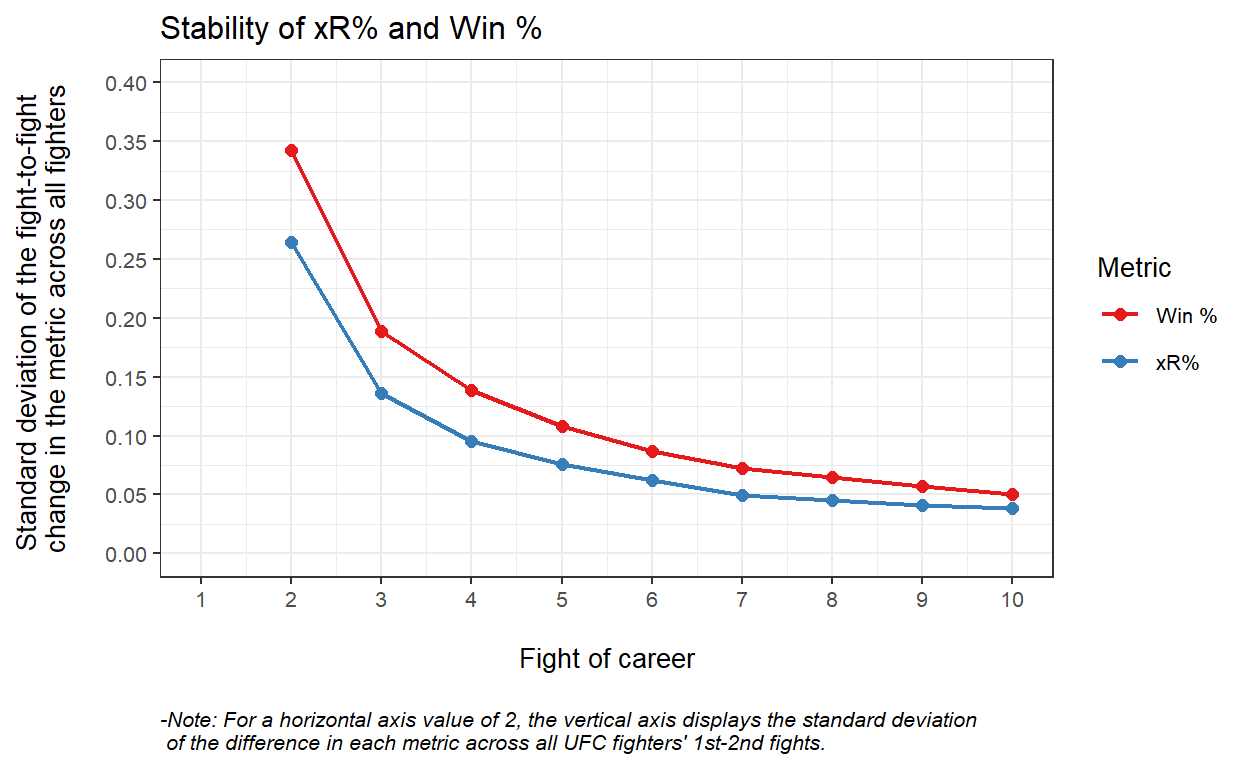
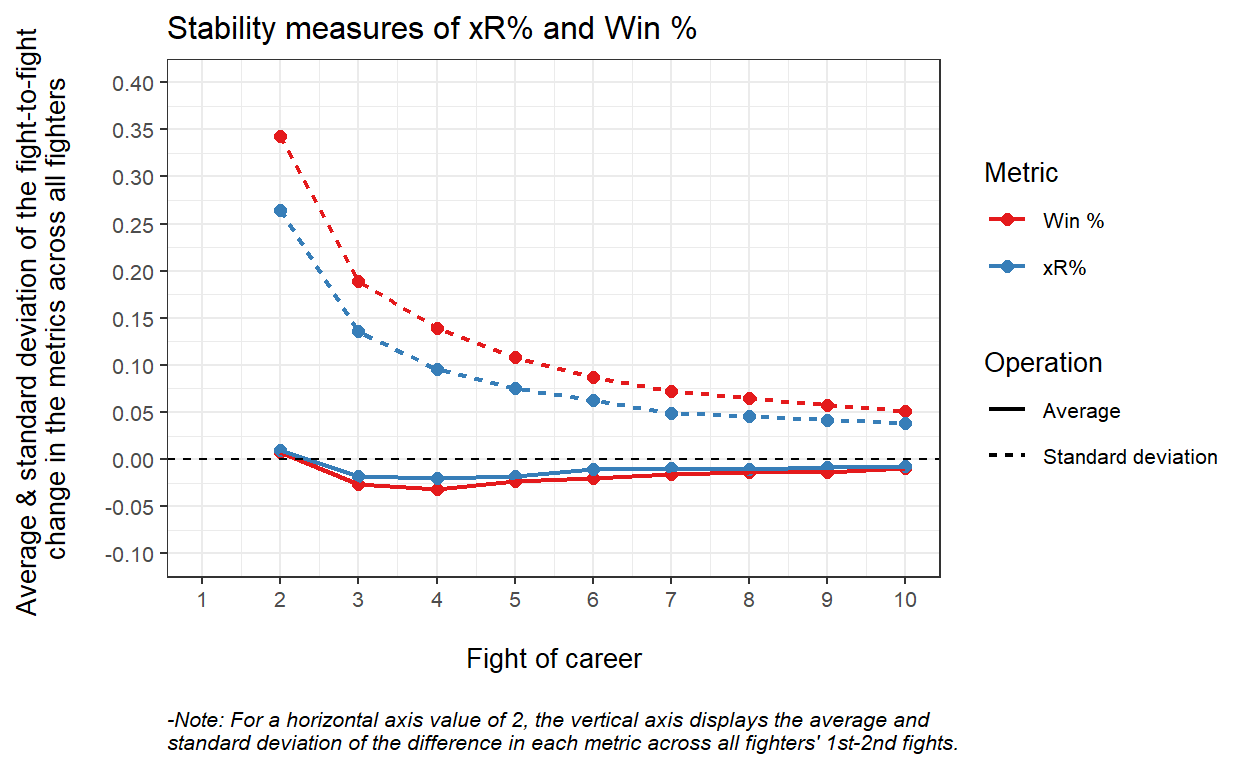
edit intro to xR post

diff --git a/_posts/2021-03-02-introducing-expected-rounds-xr/introducing-expected-rounds-xr.html b/_posts/2021-03-02-introducing-expected-rounds-xr/introducing-expected-rounds-xr.html
@@ -1528,7 +1528,7 @@ code span.wa { color: #5e5e5e; font-style: italic; } /* Warning */
 <p><img src="introducing-expected-rounds-xr_files/figure-html5/unnamed-chunk-2-1.png" width="624" data-distill-preview=1 /></p>
 </div>
 <h1 id="methodology">Methodology</h1>
-<p>The xR metric is an extension of a machine learning algorithm I developed in a <a href="https://literalfightnerd.com/posts/2021-02-19-introducing-judgeai/">previous blog post</a>. That algorithm uses official UFC round-level striking and grappling statistics to predict judges’ scores by round. The model used to create xR is trained on 4,399 UFC fights that all ended in a decision by the judges across 2011-2020. As demonstrated in my prior post, the model is able to predict round scores with a high degree of accuracy and generate well-calibrated probabilities for each possible round score. That is, for each round in the UFC, we use the algorithm to recover the probability that the judges will score the round 10-9, 10-8, 9-10, or 8-10. Then, using these round score probabilities, we compute the probability of each fighter winning that round.</p>
+<p>The xR metric is an extension of a machine learning algorithm I developed in a <a href="https://literalfightnerd.com/posts/2021-02-19-introducing-judgeai/">previous blog post</a>. That algorithm uses official UFC round-level striking and grappling statistics to predict judges’ scores by round. The model used to create xR is trained on 1,670 UFC fights that all ended in a decision by the judges across 2011-2020. As demonstrated in my prior post, the model is able to predict round scores with a high degree of accuracy and generate well-calibrated probabilities for each possible round score. That is, for each round in the UFC, we use the algorithm to recover the probability that the judges will score the round 10-9, 10-8, 9-10, or 8-10. Then, using these round score probabilities, we compute the probability of each fighter winning that round.</p>
 <p>For each round that does not end via knockout or submission, xR is simply the probability that a particular fighter won the round. Hence, xR treats each round as a single point that is up for grabs and uses round win probabilities to partition that point between the two fighters. Then, for each round that ends in a knockout or submission, the winning fighter’s xR for that round is 1 and the losing fighter’s xR for that round is 0. The equation below defines xR for a given fighter as a piece-wise function.</p>
 <p><strong>xR for a given fighter and round:</strong> <span class="math display">\[\begin{equation}
 xR = 
@@ -2336,9 +2336,9 @@ Max Holloway
 <p>First, sample size is a particularly troubling issue in MMA, and small samples cause instability. Win percent utilizes each fight once, and as a result, it can be an unstable metric for fighters that do not have many fights. Judging errors, for example, can cause large, unjust deviations in a fighter’s win percent during the early part of his or her career. Hence, intuitively, we see that only drawing from a handful of fight outcomes coupled with the judging volatility ingrained in those outcomes can make win percent a relatively unstable metric, especially early in a fighter’s career.</p>
 <p>The xR% metric, on the other hand, is computed using each round as an observation. Thus, after only 4-5 fights, a fighter will generally have fought 10 or more rounds. Utilizing these additional observations from each fight allows xR% to essentially observe each fighter’s dominance (or lack thereof) in the octagon more often than win percent, which only considers each fight once. The metric generated from more observations should vary less over time because the stability of the metrics under consideration is generally correlated with sample size. Therefore, conceptually, we can see how xR% should be able to produce a more stable measure of fighter quality in fewer fights than win percent.</p>
 <p>If the conceptual argument has not convinced you, let’s look at the degree to which these metrics actually change over a fighter’s career. This argument is a bit technical and in the weeds, so feel free to skip it if it does not interest you.</p>
-<p>Using every UFC fight in 2011-2020, we first compute the difference in win percent and xR% from each fighter’s 1st-2nd UFC fight. Then, we compute the standard deviation of these differences for each metric and plot those two values on the figure below corresponding to a value of 2 on the horizontal axis (to represent the change occurring after each fighter’s 2nd UFC fight). Likewise, we take the difference in win percent and xR% from each fighter’s 2nd-3rd UFC fight, compute the standard deviation of those differences, and plot those points along the horizontal axis at a value of 3. We continue this process up to the 10th fight of each fighter’s UFC career.</p>
-<p>The lines on the figure below essentially measure the magnitude of the variation in each metric (along the vertical axis) as the number of fights used to compute each metric increases (along the horizontal axis). Smaller values on the vertical axis represent an increase in stability. Eventually both metrics will stabilize. That is, after many fights, the win percent, for example, will not change much whether a fighter wins or loses. Thus, we are more concerned with the stability of the metrics after the first few fights of a fighter’s career.</p>
-<p>While the actual values on the vertical axis do not need to be interpreted, what is important is how the two lines relate to one another. We see that the xR% line is always below that of win percent (especially after only a few fights), which means that the fight-by-fight change in xR% is generally less than that of win percent. Hence, xR% is mathematically the more stable metric, which aligns with the conceptual argument provided above.</p>
+<p>Using every UFC fight in 2011-2020, we first compute the difference in win percent and xR% from each fighter’s 1st-2nd UFC fight. Then, we compute the average of these differences for each metric and plot those two values on the figure below corresponding to a value of 2 on the horizontal axis (to represent the change occurring after each fighter’s 2nd UFC fight). Likewise, we take the difference in win percent and xR% from each fighter’s 2nd-3rd UFC fight, compute the average of those differences, and plot those points along the horizontal axis at a value of 3. We continue this process up to the 10th fight of each fighter’s UFC career. Finally, we repeat the whole process again, except we compute the standard deviation, instead of the average, of all differences.</p>
+<p>The lines on the figure below essentially measure the magnitude of the variation in each metric (along the vertical axis) as the number of fights used to compute each metric increases (along the horizontal axis). Values measured on the vertical axis that are closer to 0 represent an increase in stability, or equivalently, less fight-to-fight variation in the metric. Eventually both metrics stabilize. That is, after many fights, a fighter’s win percent, for example, does not change much whether he or she wins or loses. Thus, we are more concerned with the stability of the metrics after the first few fights of a fighter’s career.</p>
+<p>While the actual values on the vertical axis do not need to be interpreted, what is important is how the lines relate to one another. We see that the xR% lines are always closer to 0 than the win percent lines (especially after only a few fights), which means that the fight-by-fight change in xR% is generally less than that of win percent. Hence, xR% is mathematically the more stable metric, which aligns with the conceptual argument provided above.</p>
 <div class="layout-chunk" data-layout="l-body-outset">
 <p><img src="introducing-expected-rounds-xr_files/figure-html5/unnamed-chunk-3-1.png" width="624" /></p>
 </div>

diff --git a/_site/posts/2021-03-02-introducing-expected-rounds-xr/index.html b/_site/posts/2021-03-02-introducing-expected-rounds-xr/index.html
@@ -2415,7 +2415,7 @@ d-appendix d-footnote-list a.footnote-backlink {
 <p><img src="introducing-expected-rounds-xr_files/figure-html5/unnamed-chunk-2-1.png" width="624" data-distill-preview=1 /></p>
 </div>
 <h1 id="methodology">Methodology</h1>
-<p>The xR metric is an extension of a machine learning algorithm I developed in a <a href="https://literalfightnerd.com/posts/2021-02-19-introducing-judgeai/">previous blog post</a>. That algorithm uses official UFC round-level striking and grappling statistics to predict judges’ scores by round. The model used to create xR is trained on 4,399 UFC fights that all ended in a decision by the judges across 2011-2020. As demonstrated in my prior post, the model is able to predict round scores with a high degree of accuracy and generate well-calibrated probabilities for each possible round score. That is, for each round in the UFC, we use the algorithm to recover the probability that the judges will score the round 10-9, 10-8, 9-10, or 8-10. Then, using these round score probabilities, we compute the probability of each fighter winning that round.</p>
+<p>The xR metric is an extension of a machine learning algorithm I developed in a <a href="https://literalfightnerd.com/posts/2021-02-19-introducing-judgeai/">previous blog post</a>. That algorithm uses official UFC round-level striking and grappling statistics to predict judges’ scores by round. The model used to create xR is trained on 1,670 UFC fights that all ended in a decision by the judges across 2011-2020. As demonstrated in my prior post, the model is able to predict round scores with a high degree of accuracy and generate well-calibrated probabilities for each possible round score. That is, for each round in the UFC, we use the algorithm to recover the probability that the judges will score the round 10-9, 10-8, 9-10, or 8-10. Then, using these round score probabilities, we compute the probability of each fighter winning that round.</p>
 <p>For each round that does not end via knockout or submission, xR is simply the probability that a particular fighter won the round. Hence, xR treats each round as a single point that is up for grabs and uses round win probabilities to partition that point between the two fighters. Then, for each round that ends in a knockout or submission, the winning fighter’s xR for that round is 1 and the losing fighter’s xR for that round is 0. The equation below defines xR for a given fighter as a piece-wise function.</p>
 <p><strong>xR for a given fighter and round:</strong> <span class="math display">\[\begin{equation}
 xR = 
@@ -3223,9 +3223,9 @@ Max Holloway
 <p>First, sample size is a particularly troubling issue in MMA, and small samples cause instability. Win percent utilizes each fight once, and as a result, it can be an unstable metric for fighters that do not have many fights. Judging errors, for example, can cause large, unjust deviations in a fighter’s win percent during the early part of his or her career. Hence, intuitively, we see that only drawing from a handful of fight outcomes coupled with the judging volatility ingrained in those outcomes can make win percent a relatively unstable metric, especially early in a fighter’s career.</p>
 <p>The xR% metric, on the other hand, is computed using each round as an observation. Thus, after only 4-5 fights, a fighter will generally have fought 10 or more rounds. Utilizing these additional observations from each fight allows xR% to essentially observe each fighter’s dominance (or lack thereof) in the octagon more often than win percent, which only considers each fight once. The metric generated from more observations should vary less over time because the stability of the metrics under consideration is generally correlated with sample size. Therefore, conceptually, we can see how xR% should be able to produce a more stable measure of fighter quality in fewer fights than win percent.</p>
 <p>If the conceptual argument has not convinced you, let’s look at the degree to which these metrics actually change over a fighter’s career. This argument is a bit technical and in the weeds, so feel free to skip it if it does not interest you.</p>
-<p>Using every UFC fight in 2011-2020, we first compute the difference in win percent and xR% from each fighter’s 1st-2nd UFC fight. Then, we compute the standard deviation of these differences for each metric and plot those two values on the figure below corresponding to a value of 2 on the horizontal axis (to represent the change occurring after each fighter’s 2nd UFC fight). Likewise, we take the difference in win percent and xR% from each fighter’s 2nd-3rd UFC fight, compute the standard deviation of those differences, and plot those points along the horizontal axis at a value of 3. We continue this process up to the 10th fight of each fighter’s UFC career.</p>
-<p>The lines on the figure below essentially measure the magnitude of the variation in each metric (along the vertical axis) as the number of fights used to compute each metric increases (along the horizontal axis). Smaller values on the vertical axis represent an increase in stability. Eventually both metrics will stabilize. That is, after many fights, the win percent, for example, will not change much whether a fighter wins or loses. Thus, we are more concerned with the stability of the metrics after the first few fights of a fighter’s career.</p>
-<p>While the actual values on the vertical axis do not need to be interpreted, what is important is how the two lines relate to one another. We see that the xR% line is always below that of win percent (especially after only a few fights), which means that the fight-by-fight change in xR% is generally less than that of win percent. Hence, xR% is mathematically the more stable metric, which aligns with the conceptual argument provided above.</p>
+<p>Using every UFC fight in 2011-2020, we first compute the difference in win percent and xR% from each fighter’s 1st-2nd UFC fight. Then, we compute the average of these differences for each metric and plot those two values on the figure below corresponding to a value of 2 on the horizontal axis (to represent the change occurring after each fighter’s 2nd UFC fight). Likewise, we take the difference in win percent and xR% from each fighter’s 2nd-3rd UFC fight, compute the average of those differences, and plot those points along the horizontal axis at a value of 3. We continue this process up to the 10th fight of each fighter’s UFC career. Finally, we repeat the whole process again, except we compute the standard deviation, instead of the average, of all differences.</p>
+<p>The lines on the figure below essentially measure the magnitude of the variation in each metric (along the vertical axis) as the number of fights used to compute each metric increases (along the horizontal axis). Values measured on the vertical axis that are closer to 0 represent an increase in stability, or equivalently, less fight-to-fight variation in the metric. Eventually both metrics stabilize. That is, after many fights, a fighter’s win percent, for example, does not change much whether he or she wins or loses. Thus, we are more concerned with the stability of the metrics after the first few fights of a fighter’s career.</p>
+<p>While the actual values on the vertical axis do not need to be interpreted, what is important is how the lines relate to one another. We see that the xR% lines are always closer to 0 than the win percent lines (especially after only a few fights), which means that the fight-by-fight change in xR% is generally less than that of win percent. Hence, xR% is mathematically the more stable metric, which aligns with the conceptual argument provided above.</p>
 <div class="layout-chunk" data-layout="l-body-outset">
 <p><img src="introducing-expected-rounds-xr_files/figure-html5/unnamed-chunk-3-1.png" width="624" /></p>
 </div>
